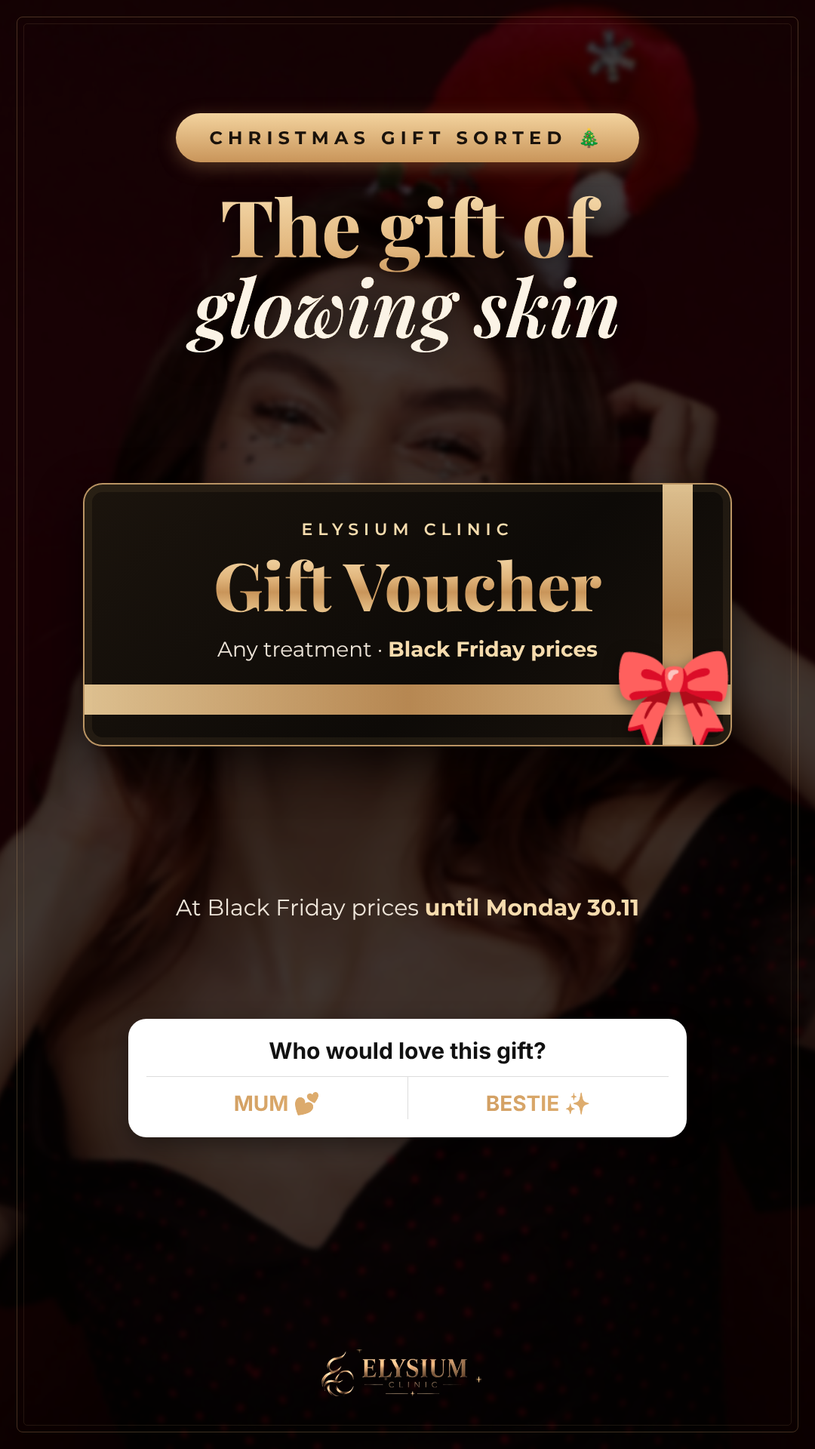
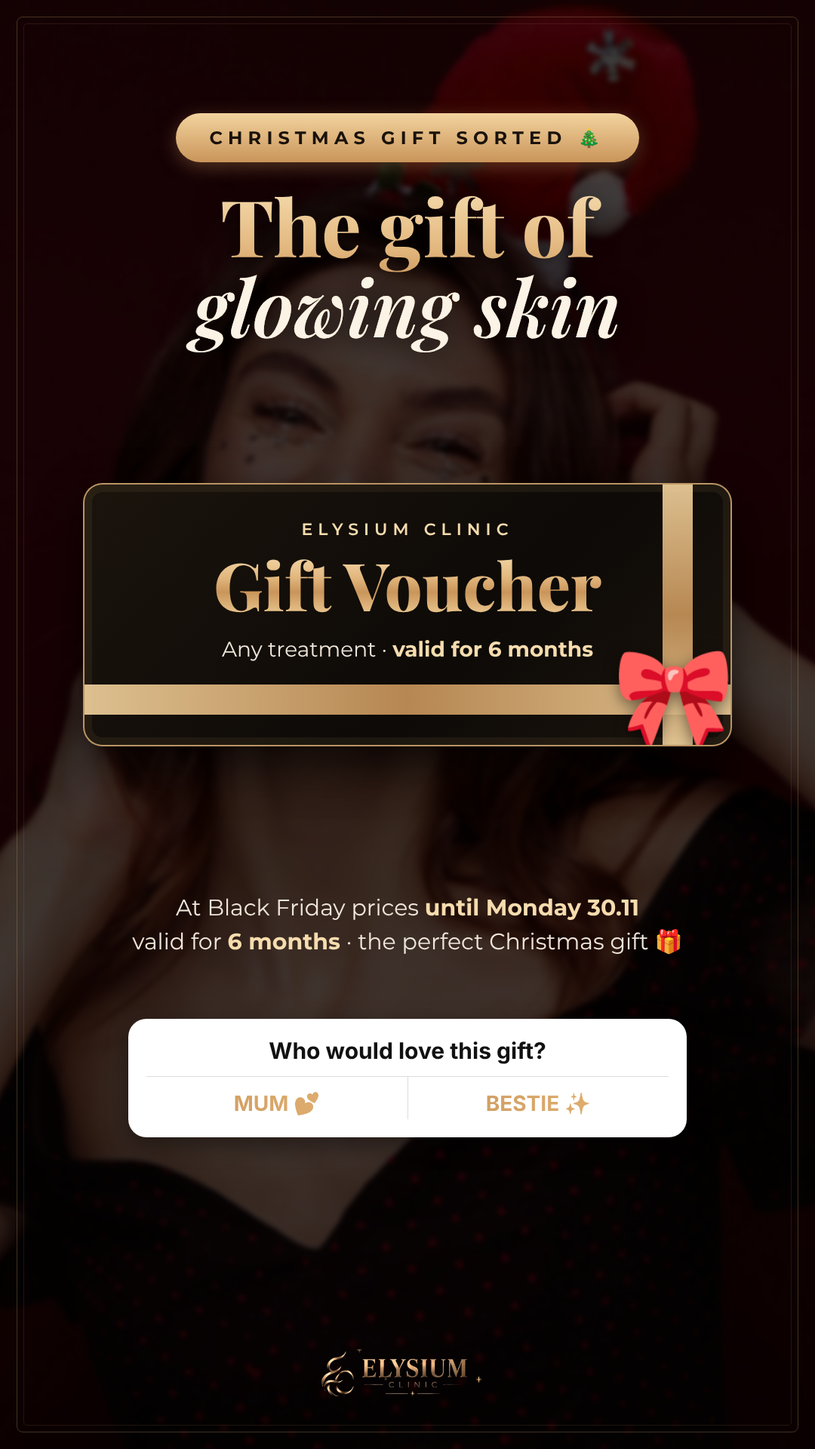
28.11: add real client reviews to carousel (8 slides), voucher valid 6 months
Claude-Session: https://claude.ai/code/session_01SaUhS5EeEBn7oMfuXG8zXf

diff --git a/posts_28_11/src/p_8.html b/posts_28_11/src/p_8.html
@@ -1,0 +1,35 @@
+<!doctype html><html lang="en"><head><meta charset="utf-8"><link href="https://fonts.googleapis.com/css2?family=Playfair+Display:ital,wght@0,600;0,700;0,800;1,600;1,700&family=Montserrat:wght@400;500;600;700&display=block" rel="stylesheet"><link rel="stylesheet" href="common.css"><style>html,body{width:1080px;height:1350px}
+.k{font-size:22px;letter-spacing:.32em;color:var(--gold);font-weight:600}
+.H{font-family:'Playfair Display',serif;font-weight:800;line-height:1.02}
+.H em{font-style:italic;font-weight:600;color:#fbf3e6;-webkit-text-fill-color:#fbf3e6}
+.txt{font-size:30px;line-height:1.5;color:#efe6da}.txt b{color:#f6dcae}
+.pairs{display:flex;gap:16px}
+.ph2{flex:1;position:relative;border-radius:22px;overflow:hidden;border:2px solid rgba(216,173,116,.8);box-shadow:0 16px 40px rgba(0,0,0,.5)}
+.ph2 img{width:100%;height:100%;object-fit:cover;display:block}
+.tg{position:absolute;left:16px;top:14px;transform:none;font-size:16px;padding:8px 16px;letter-spacing:.2em}
+.fine2{font-size:20px;color:#9e8f7c}
+.stars{font-size:46px;letter-spacing:.25em;color:#f6dcae}
+.qt{font-family:'Playfair Display',serif;font-style:italic;font-weight:600;color:#fbf3e6;line-height:1.35}
+.qt b{color:#f6dcae}
+.who{display:flex;align-items:center;justify-content:center;gap:16px;font-size:23px;letter-spacing:.22em;color:var(--gold);font-weight:600;margin-top:30px}
+.who span{width:60px;height:1px;background:var(--gold)}
+.voucher{position:relative;border-radius:26px;padding:46px 50px;background:linear-gradient(135deg,#1b140d,#0d0a07 60%,#1b140d);border:2px solid rgba(216,173,116,.85);box-shadow:0 24px 60px rgba(0,0,0,.6),inset 0 0 0 10px rgba(216,173,116,.08);text-align:center;overflow:hidden}
+.voucher::before{content:"";position:absolute;top:0;bottom:0;right:50px;width:40px;background:linear-gradient(180deg,#f3d39e,#c9955a,#f3d39e);opacity:.9}
+.voucher::after{content:"";position:absolute;left:0;right:0;bottom:40px;height:40px;background:linear-gradient(90deg,#f3d39e,#c9955a,#f3d39e);opacity:.9}
+.vin{position:relative;z-index:2}
+.bow{position:absolute;right:-6px;bottom:-14px;z-index:3;font-size:130px;filter:drop-shadow(0 6px 10px rgba(0,0,0,.5))}
+.zone{position:absolute;left:0;right:0;text-align:center;font-size:22px;letter-spacing:.3em;color:rgba(246,220,174,.85);font-weight:600}
+.stk{position:absolute;left:170px;right:170px;background:#fff;border-radius:24px;padding:24px;font-family:-apple-system,Helvetica,Arial,sans-serif;text-align:center;box-shadow:0 10px 30px rgba(0,0,0,.4)}
+.stk .qq{font-size:30px;font-weight:700;color:#111}
+.stk .opts{display:flex;border-top:1px solid #ddd;margin-top:16px}
+.stk .opts div{flex:1;padding:18px 0 4px;font-size:28px;font-weight:700;background:linear-gradient(90deg,#c9955a,#e8b878);-webkit-background-clip:text;color:transparent}
+.stk .opts div+div{border-left:1px solid #ddd}
+</style></head><body><div class="c"><div style="position:absolute;inset:0;background:url(gabinet.jpg) center/cover;filter:blur(3px) brightness(0.3);transform:scale(1.05)"></div><div class="deco"></div><div class="no">08 / 08</div><div style="position:absolute;top:120px;left:0;right:0;text-align:center"><div class="pill">YOUR TURN 🤍</div>
+<div class="H goldtext ds" style="font-size:96px;margin-top:34px">Ready for <em>your glow?</em></div></div>
+<div class="glass" style="position:absolute;left:110px;right:110px;top:520px;padding:40px 46px">
+<div style="display:flex;justify-content:space-between;font-size:30px;color:#fbf3e6;padding:12px 0;border-bottom:1px solid rgba(216,173,116,.25)"><b>RF Microneedling</b><span class="goldtext" style="font-family:'Playfair Display',serif;font-weight:800;font-size:44px">£110</span></div>
+<div style="display:flex;justify-content:space-between;font-size:30px;color:#fbf3e6;padding:12px 0;border-bottom:1px solid rgba(216,173,116,.25)"><b>ElastiStrom &amp; RF</b><span class="goldtext" style="font-family:'Playfair Display',serif;font-weight:800;font-size:44px">£130</span></div>
+<div style="display:flex;justify-content:space-between;font-size:30px;color:#fbf3e6;padding:12px 0;border-bottom:1px solid rgba(216,173,116,.25)"><b>PorCerAmid</b><span class="goldtext" style="font-family:'Playfair Display',serif;font-weight:800;font-size:44px">£55</span></div>
+<div style="display:flex;justify-content:space-between;font-size:30px;color:#fbf3e6;padding:12px 0"><b>Hydrogen Pure Glow</b><span class="goldtext" style="font-family:'Playfair Display',serif;font-weight:800;font-size:44px">£55</span></div></div>
+<div style="position:absolute;left:0;right:0;top:960px;text-align:center"><div class="txt">Book by <b>Monday 30.11</b> · use until <b>31 January</b></div>
+<div class="pill" style="margin-top:30px;font-size:28px;padding:20px 50px">SEND “BF” TO BOOK</div></div><div class="lg"><img src="logo.png"></div></div></body></html>

diff --git a/posts_28_11/src/p_5.html b/posts_28_11/src/p_5.html
@@ -24,12 +24,4 @@
 .stk .opts{display:flex;border-top:1px solid #ddd;margin-top:16px}
 .stk .opts div{flex:1;padding:18px 0 4px;font-size:28px;font-weight:700;background:linear-gradient(90deg,#c9955a,#e8b878);-webkit-background-clip:text;color:transparent}
 .stk .opts div+div{border-left:1px solid #ddd}
-</style></head><body><div class="c"><div style="position:absolute;inset:0;background:url(gabinet.jpg) center/cover;filter:blur(3px) brightness(0.3);transform:scale(1.05)"></div><div class="deco"></div><div class="no">05 / 05</div><div style="position:absolute;top:120px;left:0;right:0;text-align:center"><div class="pill">YOUR TURN 🤍</div>
-<div class="H goldtext ds" style="font-size:96px;margin-top:34px">Ready for <em>your glow?</em></div></div>
-<div class="glass" style="position:absolute;left:110px;right:110px;top:520px;padding:40px 46px">
-<div style="display:flex;justify-content:space-between;font-size:30px;color:#fbf3e6;padding:12px 0;border-bottom:1px solid rgba(216,173,116,.25)"><b>RF Microneedling</b><span class="goldtext" style="font-family:'Playfair Display',serif;font-weight:800;font-size:44px">£110</span></div>
-<div style="display:flex;justify-content:space-between;font-size:30px;color:#fbf3e6;padding:12px 0;border-bottom:1px solid rgba(216,173,116,.25)"><b>ElastiStrom &amp; RF</b><span class="goldtext" style="font-family:'Playfair Display',serif;font-weight:800;font-size:44px">£130</span></div>
-<div style="display:flex;justify-content:space-between;font-size:30px;color:#fbf3e6;padding:12px 0;border-bottom:1px solid rgba(216,173,116,.25)"><b>PorCerAmid</b><span class="goldtext" style="font-family:'Playfair Display',serif;font-weight:800;font-size:44px">£55</span></div>
-<div style="display:flex;justify-content:space-between;font-size:30px;color:#fbf3e6;padding:12px 0"><b>Hydrogen Pure Glow</b><span class="goldtext" style="font-family:'Playfair Display',serif;font-weight:800;font-size:44px">£55</span></div></div>
-<div style="position:absolute;left:0;right:0;top:960px;text-align:center"><div class="txt">Book by <b>Monday 30.11</b> · use until <b>31 January</b></div>
-<div class="pill" style="margin-top:30px;font-size:28px;padding:20px 50px">SEND “BF” TO BOOK</div></div><div class="lg"><img src="logo.png"></div></div></body></html>
+</style></head><body><div class="c"><div class="deco"></div><div class="no">05 / 08</div><div style="position:absolute;top:100px;left:0;right:0;text-align:center"><div class="k">WHAT OUR CLIENTS SAY</div><div class="stars" style="margin-top:16px">★★★★★</div></div><div style="position:absolute;left:80px;right:80px;top:240px;bottom:140px;display:flex;flex-direction:column;justify-content:center"><div class="glass" style="padding:46px 56px 40px;text-align:center;margin-bottom:28px"><div style="font-family:'Playfair Display',serif;font-size:130px;line-height:.45;color:rgba(216,173,116,.6)">“</div><div class="qt" style="font-size:38px">Total professionalism. Monika knows exactly what to suggest. I chose <b>RF microneedling and I’m more than happy</b> 😊</div><div class="who" style="margin-top:22px"><span></span>KINGA K.<span></span></div><div class="fine2" style="margin-top:8px">Facebook recommendation · translated from Polish</div></div><div class="glass" style="padding:46px 56px 40px;text-align:center;margin-bottom:28px"><div style="font-family:'Playfair Display',serif;font-size:130px;line-height:.45;color:rgba(216,173,116,.6)">“</div><div class="qt" style="font-size:38px">So professional and lovely. <b>I can see results after the very first treatment</b> 🤩 Already planning my next visit!</div><div class="who" style="margin-top:22px"><span></span>SYLWIA W.<span></span></div><div class="fine2" style="margin-top:8px">Facebook recommendation · translated from Polish</div></div></div><div class="swipe">→</div><div class="lg"><img src="logo.png"></div></div></body></html>

diff --git a/posts_28_11/src/p_7.html b/posts_28_11/src/p_7.html
@@ -1,0 +1,29 @@
+<!doctype html><html lang="en"><head><meta charset="utf-8"><link href="https://fonts.googleapis.com/css2?family=Playfair+Display:ital,wght@0,600;0,700;0,800;1,600;1,700&family=Montserrat:wght@400;500;600;700&display=block" rel="stylesheet"><link rel="stylesheet" href="common.css"><style>html,body{width:1080px;height:1350px}
+.k{font-size:22px;letter-spacing:.32em;color:var(--gold);font-weight:600}
+.H{font-family:'Playfair Display',serif;font-weight:800;line-height:1.02}
+.H em{font-style:italic;font-weight:600;color:#fbf3e6;-webkit-text-fill-color:#fbf3e6}
+.txt{font-size:30px;line-height:1.5;color:#efe6da}.txt b{color:#f6dcae}
+.pairs{display:flex;gap:16px}
+.ph2{flex:1;position:relative;border-radius:22px;overflow:hidden;border:2px solid rgba(216,173,116,.8);box-shadow:0 16px 40px rgba(0,0,0,.5)}
+.ph2 img{width:100%;height:100%;object-fit:cover;display:block}
+.tg{position:absolute;left:16px;top:14px;transform:none;font-size:16px;padding:8px 16px;letter-spacing:.2em}
+.fine2{font-size:20px;color:#9e8f7c}
+.stars{font-size:46px;letter-spacing:.25em;color:#f6dcae}
+.qt{font-family:'Playfair Display',serif;font-style:italic;font-weight:600;color:#fbf3e6;line-height:1.35}
+.qt b{color:#f6dcae}
+.who{display:flex;align-items:center;justify-content:center;gap:16px;font-size:23px;letter-spacing:.22em;color:var(--gold);font-weight:600;margin-top:30px}
+.who span{width:60px;height:1px;background:var(--gold)}
+.voucher{position:relative;border-radius:26px;padding:46px 50px;background:linear-gradient(135deg,#1b140d,#0d0a07 60%,#1b140d);border:2px solid rgba(216,173,116,.85);box-shadow:0 24px 60px rgba(0,0,0,.6),inset 0 0 0 10px rgba(216,173,116,.08);text-align:center;overflow:hidden}
+.voucher::before{content:"";position:absolute;top:0;bottom:0;right:50px;width:40px;background:linear-gradient(180deg,#f3d39e,#c9955a,#f3d39e);opacity:.9}
+.voucher::after{content:"";position:absolute;left:0;right:0;bottom:40px;height:40px;background:linear-gradient(90deg,#f3d39e,#c9955a,#f3d39e);opacity:.9}
+.vin{position:relative;z-index:2}
+.bow{position:absolute;right:-6px;bottom:-14px;z-index:3;font-size:130px;filter:drop-shadow(0 6px 10px rgba(0,0,0,.5))}
+.zone{position:absolute;left:0;right:0;text-align:center;font-size:22px;letter-spacing:.3em;color:rgba(246,220,174,.85);font-weight:600}
+.stk{position:absolute;left:170px;right:170px;background:#fff;border-radius:24px;padding:24px;font-family:-apple-system,Helvetica,Arial,sans-serif;text-align:center;box-shadow:0 10px 30px rgba(0,0,0,.4)}
+.stk .qq{font-size:30px;font-weight:700;color:#111}
+.stk .opts{display:flex;border-top:1px solid #ddd;margin-top:16px}
+.stk .opts div{flex:1;padding:18px 0 4px;font-size:28px;font-weight:700;background:linear-gradient(90deg,#c9955a,#e8b878);-webkit-background-clip:text;color:transparent}
+.stk .opts div+div{border-left:1px solid #ddd}
+</style></head><body><div class="c"><div class="deco"></div><div class="no">07 / 08</div><div style="position:absolute;top:100px;left:0;right:0;text-align:center"><div class="k">HYDROGEN PURE GLOW</div><div class="H goldtext" style="font-size:72px;margin-top:12px">One treatment, <em>no filters</em></div></div>
+<div class="pairs" style="position:absolute;left:70px;right:70px;top:290px;height:720px"><div class="ph2"><img src="glow_b.jpg" style="object-position:center 40%"><div class="tag pill tg">BEFORE</div></div><div class="ph2"><img src="glow_a.jpg" style="object-position:center 40%"><div class="tag pill tg">AFTER</div></div></div>
+<div style="position:absolute;left:0;right:0;top:1040px;text-align:center"><div class="txt">Clearer pores · brighter, more even tone · instant glow</div><div class="fine2" style="margin-top:12px">Real client · shared with permission · results vary</div></div><div class="swipe">→</div><div class="lg"><img src="logo.png"></div></div></body></html>

diff --git a/posts_28_11/src/p_6.html b/posts_28_11/src/p_6.html
@@ -1,0 +1,29 @@
+<!doctype html><html lang="en"><head><meta charset="utf-8"><link href="https://fonts.googleapis.com/css2?family=Playfair+Display:ital,wght@0,600;0,700;0,800;1,600;1,700&family=Montserrat:wght@400;500;600;700&display=block" rel="stylesheet"><link rel="stylesheet" href="common.css"><style>html,body{width:1080px;height:1350px}
+.k{font-size:22px;letter-spacing:.32em;color:var(--gold);font-weight:600}
+.H{font-family:'Playfair Display',serif;font-weight:800;line-height:1.02}
+.H em{font-style:italic;font-weight:600;color:#fbf3e6;-webkit-text-fill-color:#fbf3e6}
+.txt{font-size:30px;line-height:1.5;color:#efe6da}.txt b{color:#f6dcae}
+.pairs{display:flex;gap:16px}
+.ph2{flex:1;position:relative;border-radius:22px;overflow:hidden;border:2px solid rgba(216,173,116,.8);box-shadow:0 16px 40px rgba(0,0,0,.5)}
+.ph2 img{width:100%;height:100%;object-fit:cover;display:block}
+.tg{position:absolute;left:16px;top:14px;transform:none;font-size:16px;padding:8px 16px;letter-spacing:.2em}
+.fine2{font-size:20px;color:#9e8f7c}
+.stars{font-size:46px;letter-spacing:.25em;color:#f6dcae}
+.qt{font-family:'Playfair Display',serif;font-style:italic;font-weight:600;color:#fbf3e6;line-height:1.35}
+.qt b{color:#f6dcae}
+.who{display:flex;align-items:center;justify-content:center;gap:16px;font-size:23px;letter-spacing:.22em;color:var(--gold);font-weight:600;margin-top:30px}
+.who span{width:60px;height:1px;background:var(--gold)}
+.voucher{position:relative;border-radius:26px;padding:46px 50px;background:linear-gradient(135deg,#1b140d,#0d0a07 60%,#1b140d);border:2px solid rgba(216,173,116,.85);box-shadow:0 24px 60px rgba(0,0,0,.6),inset 0 0 0 10px rgba(216,173,116,.08);text-align:center;overflow:hidden}
+.voucher::before{content:"";position:absolute;top:0;bottom:0;right:50px;width:40px;background:linear-gradient(180deg,#f3d39e,#c9955a,#f3d39e);opacity:.9}
+.voucher::after{content:"";position:absolute;left:0;right:0;bottom:40px;height:40px;background:linear-gradient(90deg,#f3d39e,#c9955a,#f3d39e);opacity:.9}
+.vin{position:relative;z-index:2}
+.bow{position:absolute;right:-6px;bottom:-14px;z-index:3;font-size:130px;filter:drop-shadow(0 6px 10px rgba(0,0,0,.5))}
+.zone{position:absolute;left:0;right:0;text-align:center;font-size:22px;letter-spacing:.3em;color:rgba(246,220,174,.85);font-weight:600}
+.stk{position:absolute;left:170px;right:170px;background:#fff;border-radius:24px;padding:24px;font-family:-apple-system,Helvetica,Arial,sans-serif;text-align:center;box-shadow:0 10px 30px rgba(0,0,0,.4)}
+.stk .qq{font-size:30px;font-weight:700;color:#111}
+.stk .opts{display:flex;border-top:1px solid #ddd;margin-top:16px}
+.stk .opts div{flex:1;padding:18px 0 4px;font-size:28px;font-weight:700;background:linear-gradient(90deg,#c9955a,#e8b878);-webkit-background-clip:text;color:transparent}
+.stk .opts div+div{border-left:1px solid #ddd}
+</style></head><body><div class="c"><div class="deco"></div><div class="no">06 / 08</div><div style="position:absolute;top:100px;left:0;right:0;text-align:center"><div class="k">RF MICRONEEDLING</div><div class="H goldtext" style="font-size:72px;margin-top:12px">One session, <em>straight after</em></div></div>
+<div class="pairs" style="position:absolute;left:70px;right:70px;top:290px;height:720px"><div class="ph2"><img src="c1_przed.jpg"><div class="tag pill tg">BEFORE</div></div><div class="ph2"><img src="c1_po.jpg"><div class="tag pill tg">AFTER</div></div></div>
+<div style="position:absolute;left:0;right:0;top:1040px;text-align:center"><div class="txt">Plumper, smoother skin · collagen builds for 4–6 weeks</div><div class="fine2" style="margin-top:12px">Real client · shared with permission · results vary</div></div><div class="swipe">→</div><div class="lg"><img src="logo.png"></div></div></body></html>

diff --git a/posts_28_11/src/p_4.html b/posts_28_11/src/p_4.html
@@ -24,6 +24,4 @@
 .stk .opts{display:flex;border-top:1px solid #ddd;margin-top:16px}
 .stk .opts div{flex:1;padding:18px 0 4px;font-size:28px;font-weight:700;background:linear-gradient(90deg,#c9955a,#e8b878);-webkit-background-clip:text;color:transparent}
 .stk .opts div+div{border-left:1px solid #ddd}
-</style></head><body><div class="c"><div class="deco"></div><div class="no">04 / 05</div><div style="position:absolute;top:100px;left:0;right:0;text-align:center"><div class="k">HYDROGEN PURE GLOW</div><div class="H goldtext" style="font-size:72px;margin-top:12px">One treatment, <em>no filters</em></div></div>
-<div class="pairs" style="position:absolute;left:70px;right:70px;top:290px;height:720px"><div class="ph2"><img src="glow_b.jpg" style="object-position:center 40%"><div class="tag pill tg">BEFORE</div></div><div class="ph2"><img src="glow_a.jpg" style="object-position:center 40%"><div class="tag pill tg">AFTER</div></div></div>
-<div style="position:absolute;left:0;right:0;top:1040px;text-align:center"><div class="txt">Clearer pores · brighter, more even tone · instant glow</div><div class="fine2" style="margin-top:12px">Real client · shared with permission · results vary</div></div><div class="swipe">→</div><div class="lg"><img src="logo.png"></div></div></body></html>
+</style></head><body><div class="c"><div class="deco"></div><div class="no">04 / 08</div><div style="position:absolute;top:100px;left:0;right:0;text-align:center"><div class="k">WHAT OUR CLIENTS SAY</div><div class="stars" style="margin-top:16px">★★★★★</div></div><div style="position:absolute;left:80px;right:80px;top:240px;bottom:140px;display:flex;flex-direction:column;justify-content:center"><div class="glass" style="padding:46px 56px 40px;text-align:center;margin-bottom:28px"><div style="font-family:'Playfair Display',serif;font-size:130px;line-height:.45;color:rgba(216,173,116,.6)">“</div><div class="qt" style="font-size:42px">I honestly recommend Monika! She’s always there with advice and help, and I’ve never been disappointed with her treatments. Every month we tailor the treatment to my skin’s needs. <b>I can see a huge difference in my face since I started visiting Monika.</b></div><div class="who" style="margin-top:22px"><span></span>WERONIKA B.<span></span></div><div class="fine2" style="margin-top:8px">Facebook recommendation · translated from Polish</div></div></div><div class="swipe">→</div><div class="lg"><img src="logo.png"></div></div></body></html>

diff --git a/posts_28_11/src/p_3.html b/posts_28_11/src/p_3.html
@@ -24,6 +24,4 @@
 .stk .opts{display:flex;border-top:1px solid #ddd;margin-top:16px}
 .stk .opts div{flex:1;padding:18px 0 4px;font-size:28px;font-weight:700;background:linear-gradient(90deg,#c9955a,#e8b878);-webkit-background-clip:text;color:transparent}
 .stk .opts div+div{border-left:1px solid #ddd}
-</style></head><body><div class="c"><div class="deco"></div><div class="no">03 / 05</div><div style="position:absolute;top:100px;left:0;right:0;text-align:center"><div class="k">RF MICRONEEDLING</div><div class="H goldtext" style="font-size:72px;margin-top:12px">One session, <em>straight after</em></div></div>
-<div class="pairs" style="position:absolute;left:70px;right:70px;top:290px;height:720px"><div class="ph2"><img src="c1_przed.jpg"><div class="tag pill tg">BEFORE</div></div><div class="ph2"><img src="c1_po.jpg"><div class="tag pill tg">AFTER</div></div></div>
-<div style="position:absolute;left:0;right:0;top:1040px;text-align:center"><div class="txt">Plumper, smoother skin · collagen builds for 4–6 weeks</div><div class="fine2" style="margin-top:12px">Real client · shared with permission · results vary</div></div><div class="swipe">→</div><div class="lg"><img src="logo.png"></div></div></body></html>
+</style></head><body><div class="c"><div class="deco"></div><div class="no">03 / 08</div><div style="position:absolute;top:100px;left:0;right:0;text-align:center"><div class="k">WHAT OUR CLIENTS SAY</div><div class="stars" style="margin-top:16px">★★★★★</div></div><div style="position:absolute;left:80px;right:80px;top:240px;bottom:140px;display:flex;flex-direction:column;justify-content:center"><div class="glass" style="padding:46px 56px 40px;text-align:center;margin-bottom:28px"><div style="font-family:'Playfair Display',serif;font-size:130px;line-height:.45;color:rgba(216,173,116,.6)">“</div><div class="qt" style="font-size:42px">With all my heart, I highly recommend. I have done the premium hydrogen facial, which was very relaxing. <b>My skin was dull and dry and after the treatment I feel a good change on my face.</b> She also explained how to take care of my skin… Monica is a really lovely lady.</div><div class="who" style="margin-top:22px"><span></span>SOBIA I.<span></span></div><div class="fine2" style="margin-top:8px">Facebook recommendation</div></div></div><div class="swipe">→</div><div class="lg"><img src="logo.png"></div></div></body></html>

diff --git a/posts_28_11/src/p_2.html b/posts_28_11/src/p_2.html
@@ -24,9 +24,4 @@
 .stk .opts{display:flex;border-top:1px solid #ddd;margin-top:16px}
 .stk .opts div{flex:1;padding:18px 0 4px;font-size:28px;font-weight:700;background:linear-gradient(90deg,#c9955a,#e8b878);-webkit-background-clip:text;color:transparent}
 .stk .opts div+div{border-left:1px solid #ddd}
-</style></head><body><div class="c"><div class="deco"></div><div class="no">02 / 05</div><div style="position:absolute;top:110px;left:0;right:0;text-align:center"><div class="k">WHAT OUR CLIENTS SAY</div><div class="stars" style="margin-top:20px">★★★★★</div></div>
-<div class="glass" style="position:absolute;left:90px;right:90px;top:330px;padding:70px 70px 60px;text-align:center">
-<div style="font-family:'Playfair Display',serif;font-size:180px;line-height:.5;color:rgba(216,173,116,.6)">“</div>
-<div class="qt" style="font-size:52px;margin-top:10px">I’m blown away by the fantastic results after each treatment! <b>My skin never looked better.</b> Monika has a huge knowledge and provides treatments to the highest standards.</div>
-<div class="who"><span></span>IZABELA B.<span></span></div><div class="fine2" style="margin-top:10px">Facebook recommendation</div></div>
-<div class="swipe">→</div><div class="lg"><img src="logo.png"></div></div></body></html>
+</style></head><body><div class="c"><div class="deco"></div><div class="no">02 / 08</div><div style="position:absolute;top:100px;left:0;right:0;text-align:center"><div class="k">WHAT OUR CLIENTS SAY</div><div class="stars" style="margin-top:16px">★★★★★</div></div><div style="position:absolute;left:80px;right:80px;top:240px;bottom:140px;display:flex;flex-direction:column;justify-content:center"><div class="glass" style="padding:46px 56px 40px;text-align:center;margin-bottom:28px"><div style="font-family:'Playfair Display',serif;font-size:130px;line-height:.45;color:rgba(216,173,116,.6)">“</div><div class="qt" style="font-size:48px">I’m blown away by the fantastic results after each treatment! <b>My skin never looked better.</b> Monika has a huge knowledge and provides treatments to the highest standards.</div><div class="who" style="margin-top:22px"><span></span>IZABELA B.<span></span></div><div class="fine2" style="margin-top:8px">Facebook recommendation</div></div></div><div class="swipe">→</div><div class="lg"><img src="logo.png"></div></div></body></html>

diff --git a/posts_28_11/src/p_1.html b/posts_28_11/src/p_1.html
@@ -24,7 +24,7 @@
 .stk .opts{display:flex;border-top:1px solid #ddd;margin-top:16px}
 .stk .opts div{flex:1;padding:18px 0 4px;font-size:28px;font-weight:700;background:linear-gradient(90deg,#c9955a,#e8b878);-webkit-background-clip:text;color:transparent}
 .stk .opts div+div{border-left:1px solid #ddd}
-</style></head><body><div class="c"><div style="position:absolute;inset:0;background:url(party_woman.jpg) center 20%/cover;filter:blur(3px) brightness(0.35);transform:scale(1.05)"></div><div class="deco"></div><div class="no">01 / 05</div><div style="position:absolute;top:150px;left:0;right:0;text-align:center"><div class="pill">BLACK FRIDAY · 2 DAYS LEFT</div>
+</style></head><body><div class="c"><div style="position:absolute;inset:0;background:url(party_woman.jpg) center 20%/cover;filter:blur(3px) brightness(0.35);transform:scale(1.05)"></div><div class="deco"></div><div class="no">01 / 08</div><div style="position:absolute;top:150px;left:0;right:0;text-align:center"><div class="pill">BLACK FRIDAY · 2 DAYS LEFT</div>
 <div class="H goldtext ds" style="font-size:110px;margin-top:40px">Your skin,<br><em>our proof</em></div>
-<div class="txt" style="margin:36px 120px 0">Real words and real results from our clients this month 🤍</div>
+<div class="txt" style="margin:36px 120px 0">Real words and real results from our clients 🤍</div>
 <div class="stars" style="margin-top:40px">★★★★★</div></div><div class="swipe">SWIPE →</div><div class="lg"><img src="logo.png"></div></div></body></html>

diff --git a/posts_28_11/src/s3.html b/posts_28_11/src/s3.html
@@ -27,5 +27,5 @@
 </style></head><body><div class="s"><div style="position:absolute;inset:0;background:url(rf_blue.jpg) center 30%/cover;filter:blur(3px) brightness(0.32);transform:scale(1.05)"></div><div class="deco"></div><div style="position:absolute;top:150px;left:0;right:0;text-align:center"><div class="pill">BLACK FRIDAY · NEW POST</div>
 <div class="H goldtext ds" style="font-size:330px;margin-top:20px;line-height:.9">2</div><div style="font-size:44px;letter-spacing:.34em;color:#fbf3e6;font-weight:700;margin-top:8px">DAYS LEFT</div></div>
 <div class="glass" style="position:absolute;left:110px;right:110px;top:800px;padding:40px;text-align:center">
-<div class="txt">RF Microneedling <b>£110</b> · ElastiStrom &amp; RF <b>£130</b><br>PorCerAmid <b>£55</b> · Hydrogen Pure Glow <b>£55</b><br>Glow before Christmas <b>£75</b> · Gift vouchers 🎁</div></div>
+<div class="txt">RF Microneedling <b>£110</b> · ElastiStrom &amp; RF <b>£130</b><br>PorCerAmid <b>£55</b> · Hydrogen Pure Glow <b>£55</b><br>Glow before Christmas <b>£75</b><br>Gift vouchers 🎁 valid for 6 months</div></div>
 <div style="position:absolute;left:0;right:0;top:1230px;text-align:center" class="txt">Book by <b>30.11</b> · use until <b>31.01</b></div>__STK__<div class="logo" style="bottom:70px;width:230px"><img src="logo.png"></div></div></body></html>

diff --git a/posts_28_11/src/s2.html b/posts_28_11/src/s2.html
@@ -28,5 +28,5 @@
 <div class="H goldtext ds" style="font-size:104px;margin-top:30px">The gift of<br><em>glowing skin</em></div></div>
 <div style="position:absolute;left:110px;right:110px;top:640px"><div class="voucher"><div class="vin">
 <div class="k" style="color:#f6dcae">ELYSIUM CLINIC</div><div class="H goldtext" style="font-size:88px;margin-top:14px">Gift Voucher</div>
-<div class="txt" style="margin-top:20px;margin-bottom:60px;font-size:28px">Any treatment · <b>Black Friday prices</b></div></div><div class="bow">🎀</div></div></div>
-<div style="position:absolute;left:0;right:0;top:1180px;text-align:center"><div class="txt">At Black Friday prices <b>until Monday 30.11</b></div></div>__STK__<div class="logo" style="bottom:70px;width:230px"><img src="logo.png"></div></div></body></html>
+<div class="txt" style="margin-top:20px;margin-bottom:60px;font-size:28px">Any treatment · <b>valid for 6 months</b></div></div><div class="bow">🎀</div></div></div>
+<div style="position:absolute;left:0;right:0;top:1180px;text-align:center"><div class="txt">At Black Friday prices <b>until Monday 30.11</b><br>valid for <b>6 months</b> · the perfect Christmas gift 🎁</div></div>__STK__<div class="logo" style="bottom:70px;width:230px"><img src="logo.png"></div></div></body></html>

diff --git a/posts_28_11/src/render.js b/posts_28_11/src/render.js
@@ -3,7 +3,7 @@ const D=__dirname,OUT=path.join(D,'..');
 const z=t=>`<div class="zone" style="top:${t}px">`;
 const ASK='<div class="stk" style="top:1400px"><div class="qq">Tell us about your visit 🤍</div><div class="opts"><div>LOVED IT</div><div>CAN’T WAIT</div></div></div>';
 const VQ='<div class="stk" style="top:1350px"><div class="qq">Who would love this gift?</div><div class="opts"><div>MUM 💕</div><div>BESTIE ✨</div></div></div>';
-const jobs=[...[1,2,3,4,5].map(i=>[`p_${i}`,`post_karuzela/slajd_${i}.png`,'',1350]),
+const jobs=[...[1,2,3,4,5,6,7,8].map(i=>[`p_${i}`,`post_karuzela/slajd_${i}.png`,'',1350]),
  ['s1','story1_0930_opinia.png',z(1440)+'↓ POLL ↓</div>'],['s1','podglad_story1.png',ASK],
  ['s2','story2_1300_bony.png',z(1400)+'↓ POLL ↓</div>'],['s2','podglad_story2.png',VQ],
  ['s3','story3_1800_2_days_left.png',z(1340)+'BOOK NOW ↓</div><div class="zone" style="top:1440px;font-size:19px;color:rgba(239,230,218,.6)">or send “BF” / “VOUCHER” in DM</div>']];

diff --git a/posts_28_11/src/build.py b/posts_28_11/src/build.py
@@ -42,25 +42,34 @@ def story(inner, bg=''):
 def blurbg(img, pos='center', br=.35):
     return f'<div style="position:absolute;inset:0;background:url({img}) {pos}/cover;filter:blur(3px) brightness({br});transform:scale(1.05)"></div>'
 
-T = 5
+def rev(n, total, quotes):
+    blocks=''
+    for q,who,src,fs in quotes:
+        blocks+=(f'<div class="glass" style="padding:46px 56px 40px;text-align:center;margin-bottom:28px">'
+                 f'<div style="font-family:\'Playfair Display\',serif;font-size:130px;line-height:.45;color:rgba(216,173,116,.6)">“</div>'
+                 f'<div class="qt" style="font-size:{fs}px">{q}</div><div class="who" style="margin-top:22px"><span></span>{who}<span></span></div>'
+                 f'<div class="fine2" style="margin-top:8px">{src}</div></div>')
+    return post(n, total, f'<div style="position:absolute;top:100px;left:0;right:0;text-align:center"><div class="k">WHAT OUR CLIENTS SAY</div><div class="stars" style="margin-top:16px">★★★★★</div></div>'
+                f'<div style="position:absolute;left:80px;right:80px;top:240px;bottom:140px;display:flex;flex-direction:column;justify-content:center">{blocks}</div><div class="swipe">→</div>')
+T = 8
 P = {}
 P['p_1'] = post(1, T, '''<div style="position:absolute;top:150px;left:0;right:0;text-align:center"><div class="pill">BLACK FRIDAY · 2 DAYS LEFT</div>
 <div class="H goldtext ds" style="font-size:110px;margin-top:40px">Your skin,<br><em>our proof</em></div>
-<div class="txt" style="margin:36px 120px 0">Real words and real results from our clients this month 🤍</div>
+<div class="txt" style="margin:36px 120px 0">Real words and real results from our clients 🤍</div>
 <div class="stars" style="margin-top:40px">★★★★★</div></div><div class="swipe">SWIPE →</div>''', blurbg('party_woman.jpg', 'center 20%'))
-P['p_2'] = post(2, T, f'''<div style="position:absolute;top:110px;left:0;right:0;text-align:center"><div class="k">WHAT OUR CLIENTS SAY</div><div class="stars" style="margin-top:20px">★★★★★</div></div>
+P['p_2x'] = post(2, T, f'''<div style="position:absolute;top:110px;left:0;right:0;text-align:center"><div class="k">WHAT OUR CLIENTS SAY</div><div class="stars" style="margin-top:20px">★★★★★</div></div>
 <div class="glass" style="position:absolute;left:90px;right:90px;top:330px;padding:70px 70px 60px;text-align:center">
 <div style="font-family:'Playfair Display',serif;font-size:180px;line-height:.5;color:rgba(216,173,116,.6)">“</div>
 <div class="qt" style="font-size:52px;margin-top:10px">{REVIEW}</div>
 <div class="who"><span></span>IZABELA B.<span></span></div><div class="fine2" style="margin-top:10px">Facebook recommendation</div></div>
 <div class="swipe">→</div>''')
-P['p_3'] = post(3, T, '''<div style="position:absolute;top:100px;left:0;right:0;text-align:center"><div class="k">RF MICRONEEDLING</div><div class="H goldtext" style="font-size:72px;margin-top:12px">One session, <em>straight after</em></div></div>
+P['p_6'] = post(6, T, '''<div style="position:absolute;top:100px;left:0;right:0;text-align:center"><div class="k">RF MICRONEEDLING</div><div class="H goldtext" style="font-size:72px;margin-top:12px">One session, <em>straight after</em></div></div>
 <div class="pairs" style="position:absolute;left:70px;right:70px;top:290px;height:720px"><div class="ph2"><img src="c1_przed.jpg"><div class="tag pill tg">BEFORE</div></div><div class="ph2"><img src="c1_po.jpg"><div class="tag pill tg">AFTER</div></div></div>
 <div style="position:absolute;left:0;right:0;top:1040px;text-align:center"><div class="txt">Plumper, smoother skin · collagen builds for 4–6 weeks</div><div class="fine2" style="margin-top:12px">Real client · shared with permission · results vary</div></div><div class="swipe">→</div>''')
-P['p_4'] = post(4, T, '''<div style="position:absolute;top:100px;left:0;right:0;text-align:center"><div class="k">HYDROGEN PURE GLOW</div><div class="H goldtext" style="font-size:72px;margin-top:12px">One treatment, <em>no filters</em></div></div>
+P['p_7'] = post(7, T, '''<div style="position:absolute;top:100px;left:0;right:0;text-align:center"><div class="k">HYDROGEN PURE GLOW</div><div class="H goldtext" style="font-size:72px;margin-top:12px">One treatment, <em>no filters</em></div></div>
 <div class="pairs" style="position:absolute;left:70px;right:70px;top:290px;height:720px"><div class="ph2"><img src="glow_b.jpg" style="object-position:center 40%"><div class="tag pill tg">BEFORE</div></div><div class="ph2"><img src="glow_a.jpg" style="object-position:center 40%"><div class="tag pill tg">AFTER</div></div></div>
 <div style="position:absolute;left:0;right:0;top:1040px;text-align:center"><div class="txt">Clearer pores · brighter, more even tone · instant glow</div><div class="fine2" style="margin-top:12px">Real client · shared with permission · results vary</div></div><div class="swipe">→</div>''')
-P['p_5'] = post(5, T, '''<div style="position:absolute;top:120px;left:0;right:0;text-align:center"><div class="pill">YOUR TURN 🤍</div>
+P['p_8'] = post(8, T, '''<div style="position:absolute;top:120px;left:0;right:0;text-align:center"><div class="pill">YOUR TURN 🤍</div>
 <div class="H goldtext ds" style="font-size:96px;margin-top:34px">Ready for <em>your glow?</em></div></div>
 <div class="glass" style="position:absolute;left:110px;right:110px;top:520px;padding:40px 46px">
 <div style="display:flex;justify-content:space-between;font-size:30px;color:#fbf3e6;padding:12px 0;border-bottom:1px solid rgba(216,173,116,.25)"><b>RF Microneedling</b><span class="goldtext" style="font-family:'Playfair Display',serif;font-weight:800;font-size:44px">£110</span></div>
@@ -70,6 +79,13 @@ P['p_5'] = post(5, T, '''<div style="position:absolute;top:120px;left:0;right:0;
 <div style="position:absolute;left:0;right:0;top:960px;text-align:center"><div class="txt">Book by <b>Monday 30.11</b> · use until <b>31 January</b></div>
 <div class="pill" style="margin-top:30px;font-size:28px;padding:20px 50px">SEND “BF” TO BOOK</div></div>''', blurbg('gabinet.jpg', 'center', .3))
 
+FB='Facebook recommendation'
+TR='Facebook recommendation · translated from Polish'
+P['p_2']=rev(2,T,[(REVIEW,'IZABELA B.',FB,48)])
+P['p_3']=rev(3,T,[('With all my heart, I highly recommend. I have done the premium hydrogen facial, which was very relaxing. <b>My skin was dull and dry and after the treatment I feel a good change on my face.</b> She also explained how to take care of my skin… Monica is a really lovely lady.','SOBIA I.',FB,42)])
+P['p_4']=rev(4,T,[('I honestly recommend Monika! She’s always there with advice and help, and I’ve never been disappointed with her treatments. Every month we tailor the treatment to my skin’s needs. <b>I can see a huge difference in my face since I started visiting Monika.</b>','WERONIKA B.',TR,42)])
+P['p_5']=rev(5,T,[('Total professionalism. Monika knows exactly what to suggest. I chose <b>RF microneedling and I’m more than happy</b> 😊','KINGA K.',TR,38),
+                  ('So professional and lovely. <b>I can see results after the very first treatment</b> 🤩 Already planning my next visit!','SYLWIA W.',TR,38)])
 S = {}
 S['s1'] = story(f'''<div style="position:absolute;top:150px;left:0;right:0;text-align:center"><div class="pill">GOOD MORNING FROM ELYSIUM ☕</div><div class="stars" style="margin-top:36px">★★★★★</div></div>
 <div class="glass" style="position:absolute;left:90px;right:90px;top:420px;padding:70px 64px;text-align:center">
@@ -80,13 +96,14 @@ S['s2'] = story('''<div style="position:absolute;top:150px;left:0;right:0;text-a
 <div class="H goldtext ds" style="font-size:104px;margin-top:30px">The gift of<br><em>glowing skin</em></div></div>
 <div style="position:absolute;left:110px;right:110px;top:640px"><div class="voucher"><div class="vin">
 <div class="k" style="color:#f6dcae">ELYSIUM CLINIC</div><div class="H goldtext" style="font-size:88px;margin-top:14px">Gift Voucher</div>
-<div class="txt" style="margin-top:20px;margin-bottom:60px;font-size:28px">Any treatment · <b>Black Friday prices</b></div></div><div class="bow">🎀</div></div></div>
-<div style="position:absolute;left:0;right:0;top:1180px;text-align:center"><div class="txt">At Black Friday prices <b>until Monday 30.11</b></div></div>''', blurbg('party_woman.jpg', 'center 25%', .28))
+<div class="txt" style="margin-top:20px;margin-bottom:60px;font-size:28px">Any treatment · <b>valid for 6 months</b></div></div><div class="bow">🎀</div></div></div>
+<div style="position:absolute;left:0;right:0;top:1180px;text-align:center"><div class="txt">At Black Friday prices <b>until Monday 30.11</b><br>valid for <b>6 months</b> · the perfect Christmas gift 🎁</div></div>''', blurbg('party_woman.jpg', 'center 25%', .28))
 S['s3'] = story('''<div style="position:absolute;top:150px;left:0;right:0;text-align:center"><div class="pill">BLACK FRIDAY · NEW POST</div>
 <div class="H goldtext ds" style="font-size:330px;margin-top:20px;line-height:.9">2</div><div style="font-size:44px;letter-spacing:.34em;color:#fbf3e6;font-weight:700;margin-top:8px">DAYS LEFT</div></div>
 <div class="glass" style="position:absolute;left:110px;right:110px;top:800px;padding:40px;text-align:center">
-<div class="txt">RF Microneedling <b>£110</b> · ElastiStrom &amp; RF <b>£130</b><br>PorCerAmid <b>£55</b> · Hydrogen Pure Glow <b>£55</b><br>Glow before Christmas <b>£75</b> · Gift vouchers 🎁</div></div>
+<div class="txt">RF Microneedling <b>£110</b> · ElastiStrom &amp; RF <b>£130</b><br>PorCerAmid <b>£55</b> · Hydrogen Pure Glow <b>£55</b><br>Glow before Christmas <b>£75</b><br>Gift vouchers 🎁 valid for 6 months</div></div>
 <div style="position:absolute;left:0;right:0;top:1230px;text-align:center" class="txt">Book by <b>30.11</b> · use until <b>31.01</b></div>''', blurbg('rf_blue.jpg', 'center 30%', .32))
 
+P.pop('p_2x',None)
 for k, v in {**P, **S}.items():
     open(k + '.html', 'w').write(v)
